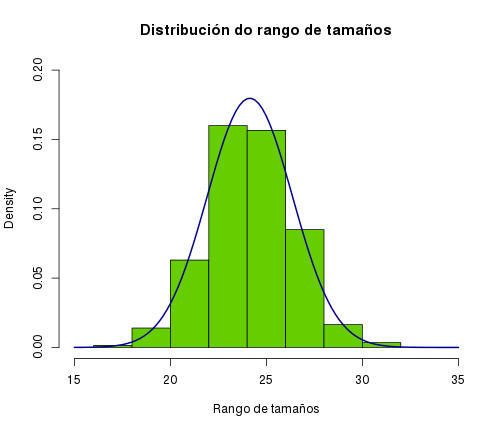
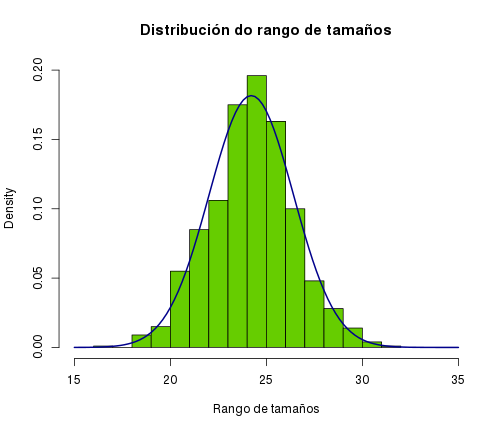
Melloras de gráficos

diff --git a/index.html b/index.html
@@ -1765,18 +1765,18 @@ Sempre que queiramos atopar unha solución a un problema, ou ver exemplos, podem
 <div class="source"><pre class="knitr r"><span class="hl std">hist.i</span>
 </pre></div>
 <div class="output"><pre class="knitr r">## $breaks
-##  [1] 15 16 17 18 19 20 21 22 23 24 25 26 27 28 29 30 31
+##  [1] 16 17 18 19 20 21 22 23 24 25 26 27 28 29 30 31 32
 ## 
 ## $counts
-##  [1]   1   0   1   8  23  49  79 138 163 194 146 103  56  30   5   4
+##  [1]   1   0   9  15  55  85 106 175 196 163 100  48  28  14   4   1
 ## 
 ## $density
-##  [1] 0.001 0.000 0.001 0.008 0.023 0.049 0.079 0.138 0.163 0.194 0.146
-## [12] 0.103 0.056 0.030 0.005 0.004
+##  [1] 0.001 0.000 0.009 0.015 0.055 0.085 0.106 0.175 0.196 0.163 0.100
+## [12] 0.048 0.028 0.014 0.004 0.001
 ## 
 ## $mids
-##  [1] 15.5 16.5 17.5 18.5 19.5 20.5 21.5 22.5 23.5 24.5 25.5 26.5 27.5 28.5
-## [15] 29.5 30.5
+##  [1] 16.5 17.5 18.5 19.5 20.5 21.5 22.5 23.5 24.5 25.5 26.5 27.5 28.5 29.5
+## [15] 30.5 31.5
 ## 
 ## $xname
 ## [1] "diato"
@@ -1842,7 +1842,8 @@ Sempre que queiramos atopar unha solución a un problema, ou ver exemplos, podem
 <span class="hl com"># asignanselle nomes ao vector choiva</span>
 <span class="hl kwd">names</span><span class="hl std">(choiva)</span> <span class="hl kwb">&lt;-</span> <span class="hl std">meses</span>
 <span class="hl com"># gráfico de barras</span>
-<span class="hl kwd">barplot</span><span class="hl std">(choiva,</span> <span class="hl kwc">xlab</span> <span class="hl std">=</span> <span class="hl str">&quot;Meses&quot;</span><span class="hl std">,</span> <span class="hl kwc">ylab</span> <span class="hl std">=</span> <span class="hl str">&quot;Choiva&quot;</span><span class="hl std">,</span> <span class="hl kwc">ylim</span> <span class="hl std">=</span> <span class="hl kwd">c</span><span class="hl std">(</span><span class="hl num">0</span><span class="hl std">,</span> <span class="hl num">230</span><span class="hl std">),</span> <span class="hl kwc">col</span> <span class="hl std">=</span> <span class="hl str">&quot;lightblue3&quot;</span><span class="hl std">)</span>
+<span class="hl kwd">barplot</span><span class="hl std">(choiva,</span> <span class="hl kwc">xlab</span> <span class="hl std">=</span> <span class="hl str">&quot;Meses&quot;</span><span class="hl std">,</span> <span class="hl kwc">ylab</span> <span class="hl std">=</span> <span class="hl str">&quot;Choiva (L/m2)&quot;</span><span class="hl std">,</span> <span class="hl kwc">ylim</span> <span class="hl std">=</span> <span class="hl kwd">c</span><span class="hl std">(</span><span class="hl num">0</span><span class="hl std">,</span> <span class="hl num">230</span><span class="hl std">),</span> <span class="hl kwc">col</span> <span class="hl std">=</span> <span class="hl str">&quot;lightblue3&quot;</span><span class="hl std">,</span>
+    <span class="hl kwc">main</span> <span class="hl std">=</span> <span class="hl str">&quot;Mabegondo, 2013&quot;</span><span class="hl std">)</span>
 <span class="hl com"># liñas horizontas especificadas pola secuencia</span>
 <span class="hl kwd">abline</span><span class="hl std">(</span><span class="hl kwc">h</span> <span class="hl std">=</span> <span class="hl kwd">seq</span><span class="hl std">(</span><span class="hl num">1</span><span class="hl std">,</span> <span class="hl num">220</span><span class="hl std">,</span> <span class="hl num">60</span><span class="hl std">),</span> <span class="hl kwc">lty</span> <span class="hl std">=</span> <span class="hl num">2</span><span class="hl std">,</span> <span class="hl kwc">lwd</span> <span class="hl std">=</span> <span class="hl num">0.5</span><span class="hl std">,</span> <span class="hl kwc">col</span> <span class="hl std">=</span> <span class="hl str">&quot;gray40&quot;</span><span class="hl std">)</span>
 <span class="hl com"># péchase a caixa do gráfico</span>
@@ -1874,25 +1875,25 @@ Sempre que queiramos atopar unha solución a un problema, ou ver exemplos, podem
 <h3>Distribución normal</h3>
 <div class="chunk" id="unnamed-chunk-92"><div class="rcode"><div class="source"><pre class="knitr r"><span class="hl kwd">rnorm</span><span class="hl std">(</span><span class="hl num">100</span><span class="hl std">)</span>
 </pre></div>
-<div class="output"><pre class="knitr r">##   [1]  0.28924  0.46015 -0.05977  1.08894 -0.49012  0.26763 -0.91091
-##   [8]  0.76719  0.03803 -0.68857  0.36130 -2.93917  1.06255 -0.71203
-##  [15] -1.46677  0.63900  1.20573  1.18925  0.71154 -0.51238 -0.10052
-##  [22]  0.48656 -1.45121  1.07780  0.49288 -0.35029 -0.10926 -0.72110
-##  [29]  0.62318 -1.06773  0.17506 -0.92410 -1.07622 -0.55756  0.85914
-##  [36] -0.88906  1.58637 -0.76910  0.40442  1.04980  0.64042 -0.13246
-##  [43] -1.72715 -0.42326 -0.32899  1.08758 -0.23250 -0.53787 -0.01108
-##  [50]  0.51757 -1.32363  0.98598  0.12253 -0.26443 -0.11251 -0.59345
-##  [57] -0.16833  0.38883  0.72757 -0.35209 -0.85049 -1.48249  1.16647
-##  [64]  1.64429 -2.84124  0.70237 -0.42436 -0.55020 -0.62185  1.19197
-##  [71]  0.44729 -1.05160  1.83865  1.91761  1.49955  0.15180  1.17751
-##  [78] -1.41904 -0.38291  0.60270 -0.50140 -0.52822  0.42585  0.35003
-##  [85]  1.14981 -1.06114  1.57019  0.46092 -0.29411 -1.67390 -0.23463
-##  [92]  0.59341  0.92395  0.42911 -0.11394 -0.43330  1.09727  1.10310
-##  [99] -0.64572  0.41450
+<div class="output"><pre class="knitr r">##   [1]  0.809153  0.600712  1.220205  0.310755  0.047326 -0.702892  0.176055
+##   [8]  0.741847 -0.076015  1.426133  0.545831 -0.073203 -0.953654 -0.630386
+##  [15] -0.038710  1.138054  0.454051  0.893098 -0.877340  1.582489 -0.392878
+##  [22] -1.456177  0.370424  0.512083 -1.277891  0.140972  0.081519  0.280823
+##  [29] -1.180354  0.100727 -0.528619  1.447812  1.117347  0.690674  0.449098
+##  [36]  0.872775 -0.493068  0.702167 -1.999960  0.548068 -0.775350 -1.312899
+##  [43] -0.597564  0.373179 -0.463557  0.005934 -0.220679  0.179152  1.262621
+##  [50]  0.816791  0.408515 -0.118186  0.418464 -1.732231  1.015037  1.057663
+##  [57] -1.322829 -1.022392  0.674638 -0.220697  0.737680 -1.199624 -1.931324
+##  [64] -0.353044 -0.031848  0.151352  0.185210 -2.118147 -0.390143 -0.019005
+##  [71] -0.529668 -0.116302  1.034011 -2.022797  0.410549  0.174974 -0.216113
+##  [78]  0.698812  1.853229 -0.654307  0.307703  0.590764 -0.631860 -0.368173
+##  [85] -1.046673 -0.344337  0.465520 -1.101213  0.110764  0.531103 -0.057057
+##  [92]  0.233864 -0.163623 -1.104120 -0.048148 -1.365872 -1.042207  0.584110
+##  [99] -1.360475  0.934332
 </pre></div>
 <div class="source"><pre class="knitr r"><span class="hl kwd">rnorm</span><span class="hl std">(</span><span class="hl num">10</span><span class="hl std">,</span> <span class="hl num">3</span><span class="hl std">,</span> <span class="hl num">1</span><span class="hl std">)</span>
 </pre></div>
-<div class="output"><pre class="knitr r">##  [1] 2.827 3.335 3.504 2.447 4.170 2.812 1.755 2.015 2.283 3.162
+<div class="output"><pre class="knitr r">##  [1] 2.690 3.841 5.299 2.626 2.569 2.045 3.150 4.722 2.819 5.337
 </pre></div>
 <div class="source"><pre class="knitr r"><span class="hl kwd">pnorm</span><span class="hl std">(</span><span class="hl num">0</span><span class="hl std">)</span>
 </pre></div>
@@ -1947,13 +1948,13 @@ Sempre que queiramos atopar unha solución a un problema, ou ver exemplos, podem
 ## 	Welch Two Sample t-test
 ## 
 ## data:  x and y
-## t = 1.258, df = 16.94, p-value = 0.2253
+## t = 0.8317, df = 15.09, p-value = 0.4186
 ## alternative hypothesis: true difference in means is not equal to 0
 ## 95 percent confidence interval:
-##  -0.3124  1.2354
+##  -0.4404  1.0044
 ## sample estimates:
 ## mean of x mean of y 
-##    0.1918   -0.2697
+##     0.609     0.327
 </pre></div>
 </div></div>
 
@@ -1977,13 +1978,13 @@ Sempre que queiramos atopar unha solución a un problema, ou ver exemplos, podem
 ## 	Welch Two Sample t-test
 ## 
 ## data:  x and y
-## t = 1.258, df = 16.94, p-value = 0.2253
+## t = 0.8317, df = 15.09, p-value = 0.4186
 ## alternative hypothesis: true difference in means is not equal to 0
 ## 95 percent confidence interval:
-##  -0.3124  1.2354
+##  -0.4404  1.0044
 ## sample estimates:
 ## mean of x mean of y 
-##    0.1918   -0.2697
+##     0.609     0.327
 </pre></div>
 </div></div>
 
